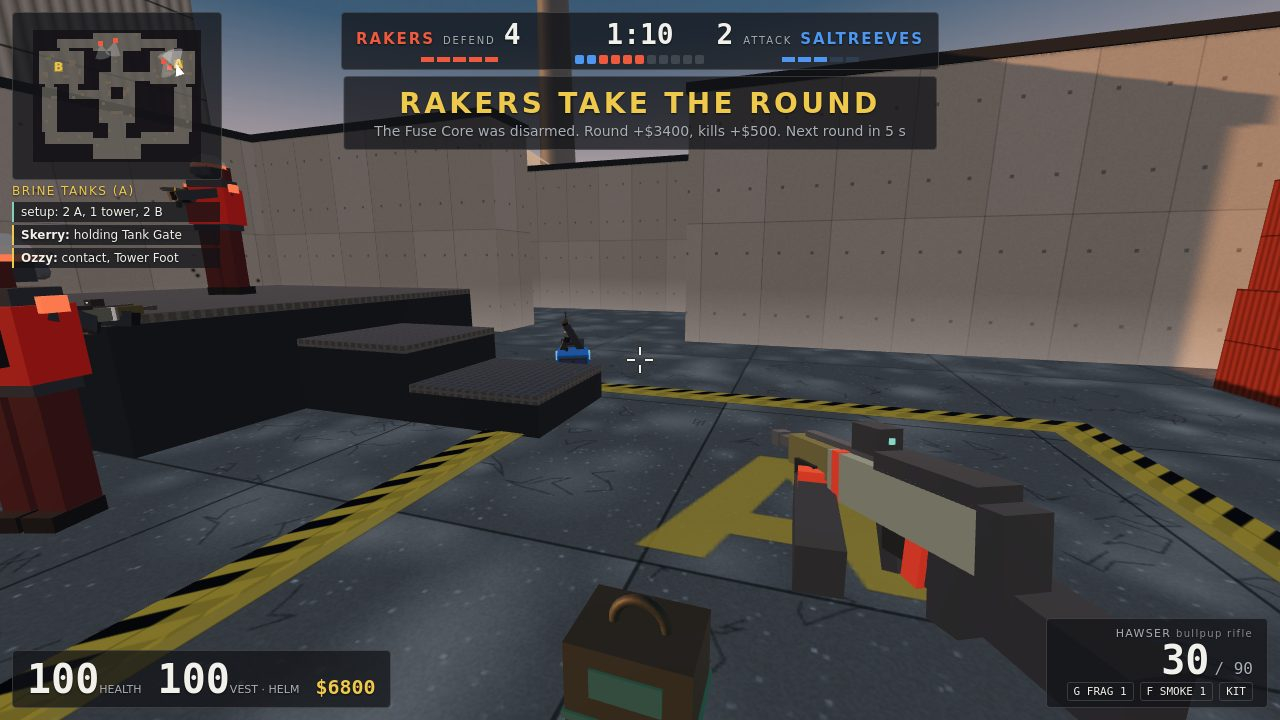
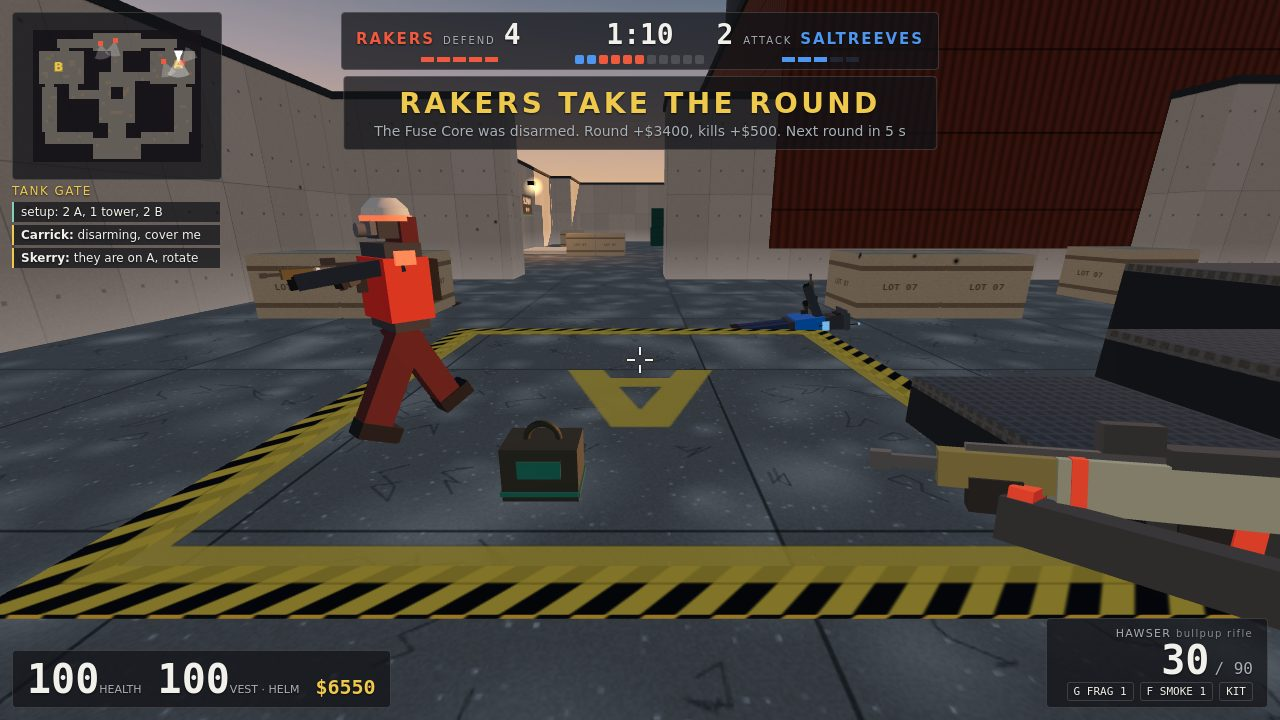
Screenshots: true radio rows, a teammate's disarm on A seen down the lane, shot 3 pitched up
- Radio: older lines (and the autopilot player's own calls) are cleared, every bot is silent for
  the scene, and each scene says two lines the game produces in such a round: shot 1 'gunfire
  at Conveyor Court' + 'go B now'; shot 3 'holding Pan Door' + 'footsteps at Boiler Gate'; shot 4
  'they are on A, rotate' + Carrick's own 'disarming, cover me'. The core carrier is never the
  lurker the plan line names.
- Shot 4: Carrick disarms with the kit 2.7 m ahead (the case whole in the lower middle), the
  player looking south down the lane past A over two downed Saltreeves; the banner and pay stay.
- Shot 3: one step back and pitched -0.2 so pad, smoke and the Saltreeve sit above the HUD.
Fresh screenshots.

diff --git a/tools/stage.js b/tools/stage.js
@@ -7,16 +7,21 @@ import { DT } from './src/sim/config.js';
 import { giveWeapon, eyeOf, heightOf } from './src/sim/actors.js';
 import { createBrain, think } from './src/sim/bots.js';
 import { yawTo } from './src/sim/util.js';
+import { EV } from './src/sim/events.js';
+import { radio } from './src/sim/coach.js';
 
 // cast: [who, col, row, faces col, faces row, gun]; who: p player, m0.. teammates, f0.. opponents.
 // side: the player's side (0 attack, 1 defend); phase: 'freeze' stages in buy time, else live with clock < clock.
-// fire: opponents already engaging the player [who, reaction s]. script(i, s): per tick, s = { ctx, p, who, aim }.
+// fire: opponents already engaging the player [who, reaction s, aim low]. script(i, s): per tick, s = { ctx, p, who, aim }.
+// radio: the two team-radio lines of the scene, [who, text], each one the game itself says in such a round
+// (bots.js / coach.js wording); everyone else is silent for the scene, and older lines are cleared.
 const SCENES = {
   // Conveyor Court: crouched by the low wall, the player drops one Saltreeve with a headshot, then trades
   // with a second one 7 m out against the lit west wall (his muzzle flash, our hit marker).
   1: { side: 0, round: 5, clock: 80, ticks: 36, core: 'mate',
     cast: [['p', 24, 28, 22, 24, 'hawser'], ['f0', 24, 24, 24, 28, 'hawser'], ['f1', 22, 24, 24, 28, 'cleat']],
     fire: [['f1', 0.35, -0.05]], // his first shots go low: the player survives the trade
+    radio: [['m1', 'gunfire at Conveyor Court'], ['m0', 'go B now']], // heard from the cut; the coach's call
     script(i, s) {
       s.p.cmd.crouch = true;
       if (i === 14) s.aim('f0', 'head');
@@ -30,14 +35,16 @@ const SCENES = {
   // Arming on B: a teammate arms the Fuse Core on the pad while the player covers from behind; the smoke
   // closes Boiler Gate 12 m out, a Saltreeve works round its edge, a teammate holds Pan Door.
   3: { side: 0, round: 2, clock: 92, core: 'm0', ticks: 40, smoke: [10.5, 6.6],
-    cast: [['p', 7, 16, 9, 8, 'hawser'], ['m0', 8, 12, 12, 12, 'hawser'], ['m1', 12, 13, 13, 19, 'skiff'], ['f0', 13, 7, 8, 13, 'hawser']],
+    cast: [['p', 7, 17, 9, 8, 'hawser'], ['m0', 8, 12, 12, 12, 'hawser'], ['m1', 12, 13, 13, 19, 'skiff'], ['f0', 13, 7, 8, 13, 'hawser']],
+    radio: [['m1', 'holding Pan Door'], ['m1', 'footsteps at Boiler Gate']],
     fire: [['f0', 4]], // he has the player in his sights but will not fire inside the scene
-    script(i, s) { s.aim(null, -0.08, 9, 8); } },
-  // A retake of A won by the disarm, crouched over the core with the kit, looking up the pad to the deck
-  // and Tank Gate: the window turns teal, the banner names the disarm; the match goes on.
-  4: { side: 1, round: 6, clock: 70, core: 'armed', site: 'A', ticks: 220, end: 0.35, dead: ['f0', 'f1'],
-    cast: [['p', 48, 13, 46, 7, 'hawser'], ['m0', 45, 12, 43, 7, 'hawser'], ['m1', 51, 10, 46, 6, 'skiff'], ['f0', 46, 9, 48, 13, 'hawser'], ['f1', 40, 16, 48, 13, 'skiff']],
-    script(i, s) { s.p.cmd.use = s.p.cmd.crouch = true; s.aim(null, -0.2, 46, 7); } },
+    script(i, s) { s.aim(null, -0.2, 9, 9); } },
+  // A retake of A won by a teammate's disarm with the kit, 2.7 m ahead, looking south down the lane past the
+  // pad over two downed Saltreeves: the window turns teal, the banner names the disarm; the match goes on.
+  4: { side: 1, round: 6, clock: 70, core: 'armed', site: 'A', ticks: 100, end: 0.35, dead: ['f0', 'f1'],
+    cast: [['p', 48, 8, 48, 20, 'hawser'], ['m0', 49.6, 10.7, 48.9, 10.3, 'hawser'], ['m1', 46, 15, 47, 20, 'skiff'], ['f0', 47, 13, 51, 13, 'hawser'], ['f1', 50.5, 14.5, 45, 14.5, 'skiff']],
+    radio: [['m1', 'they are on A, rotate']], // Carrick says 'disarming, cover me' himself
+    script(i, s) { s.aim(null, -0.28, 48, 20); } },
 };
 
 function run(ctx, n, script, drawn = 3) { // n ticks; only the last `drawn` are rendered (effects in flight)
@@ -60,7 +67,7 @@ function autopilot(ctx, done) {
 function place(state, a, c, r, fc, fr, gun) {
   const S = state.map.cell;
   a.alive = true; a.hp = 100;
-  a.pos.x = a.prev.x = (c + 0.5) * S; a.pos.z = a.prev.z = (r + 0.5) * S; a.pos.y = a.prev.y = state.map.height[r * state.map.w + c];
+  a.pos.x = a.prev.x = (c + 0.5) * S; a.pos.z = a.prev.z = (r + 0.5) * S; a.pos.y = a.prev.y = state.map.height[Math.floor(r) * state.map.w + Math.floor(c)];
   a.vel.x = a.vel.z = a.pitch = a.cmd.pitch = 0;
   a.yaw = a.prevYaw = a.cmd.yaw = yawTo(c, r, fc, fr);
   if (gun) giveWeapon(a, gun);
@@ -81,15 +88,20 @@ function stage(ctx, sc) {
   else { Object.assign(p.grenades, { frag: 1, smoke: 1 }); p.armor = 100; p.helm = true; p.kit = mySide === 1; } // the kit is the defenders'
   p.money = Math.max(p.money, sc.money ?? 3150);
   p.hp = sc.hp ?? 100;
-  if (sc.core === 'carry' || sc.core === 'mate') Object.assign(state.core, { state: 'carried', carrier: sc.core === 'mate' ? mates[3].id : p.id });
+  if (sc.core === 'carry' || sc.core === 'mate') Object.assign(state.core, { state: 'carried', carrier: sc.core === 'mate' ? mates.find((m) => !m.brain.lurk).id : p.id }); // the lurker never carries
   if (sc.core === 'm0') Object.assign(state.core, { state: 'carried', carrier: who('m0').id, worker: who('m0').id, progress: 0.62 }); // mid-arm
-  if (sc.core === 'armed') { // on the ground in front of the player, within disarm reach
-    Object.assign(state.core, { state: 'planted', site: sc.site ?? 'B', fuse: 25, carrier: -1, y: 0 });
-    state.core.x = p.pos.x - Math.sin(p.yaw) * 1.5; state.core.z = p.pos.z - Math.cos(p.yaw) * 1.5;
+  if (sc.core === 'armed') { // 2.7 m in front of the player, 0.6 m left, m0 most of the way through the disarm
+    const fx = -Math.sin(p.yaw), fz = -Math.cos(p.yaw), m0 = who('m0');
+    Object.assign(state.core, { state: 'planted', site: sc.site ?? 'B', fuse: 25, carrier: -1, y: 0, worker: m0.id, progress: 0.62 });
+    state.core.x = p.pos.x + fx * 2.7 + fz * 0.6; state.core.z = p.pos.z + fz * 2.7 - fx * 0.6;
+    m0.kit = true;
   }
   state.round.planted = sc.core === 'armed';
   if (sc.smoke) Object.assign(state.smokes[0], { live: true, x: sc.smoke[0] * S, y: 0, z: sc.smoke[1] * S, age: 2 });
   for (const k of sc.dead ?? []) Object.assign(who(k), { alive: false, hp: 0, diedAt: -99 }); // bodies of an earlier fight
+  for (const a of [...mates, ...foes]) Object.assign(a.brain, { atHold: true, calledAt: 1e9 }); // silent: no arrival or contact calls
+  for (const e of state.events.list) if (e.type === EV.RADIO) e.type = 0; // older lines (and the autopilot player's)
+  for (const [k, text] of sc.radio ?? []) radio(state, who(k), text);
   for (const [k, react, low = 0.01] of sc.fire ?? []) Object.assign(who(k).brain, { target: p.id, reactTimer: react, errYaw: 0.02, errPitch: low, aimHead: false, crouchSpray: false, lastSeenId: p.id, lastSeenTime: 1e9 });
   // Look at an actor's head or chest, or (k null) at pitch `part` toward cell (c, r).
   const aim = (k, part, c, r) => {
